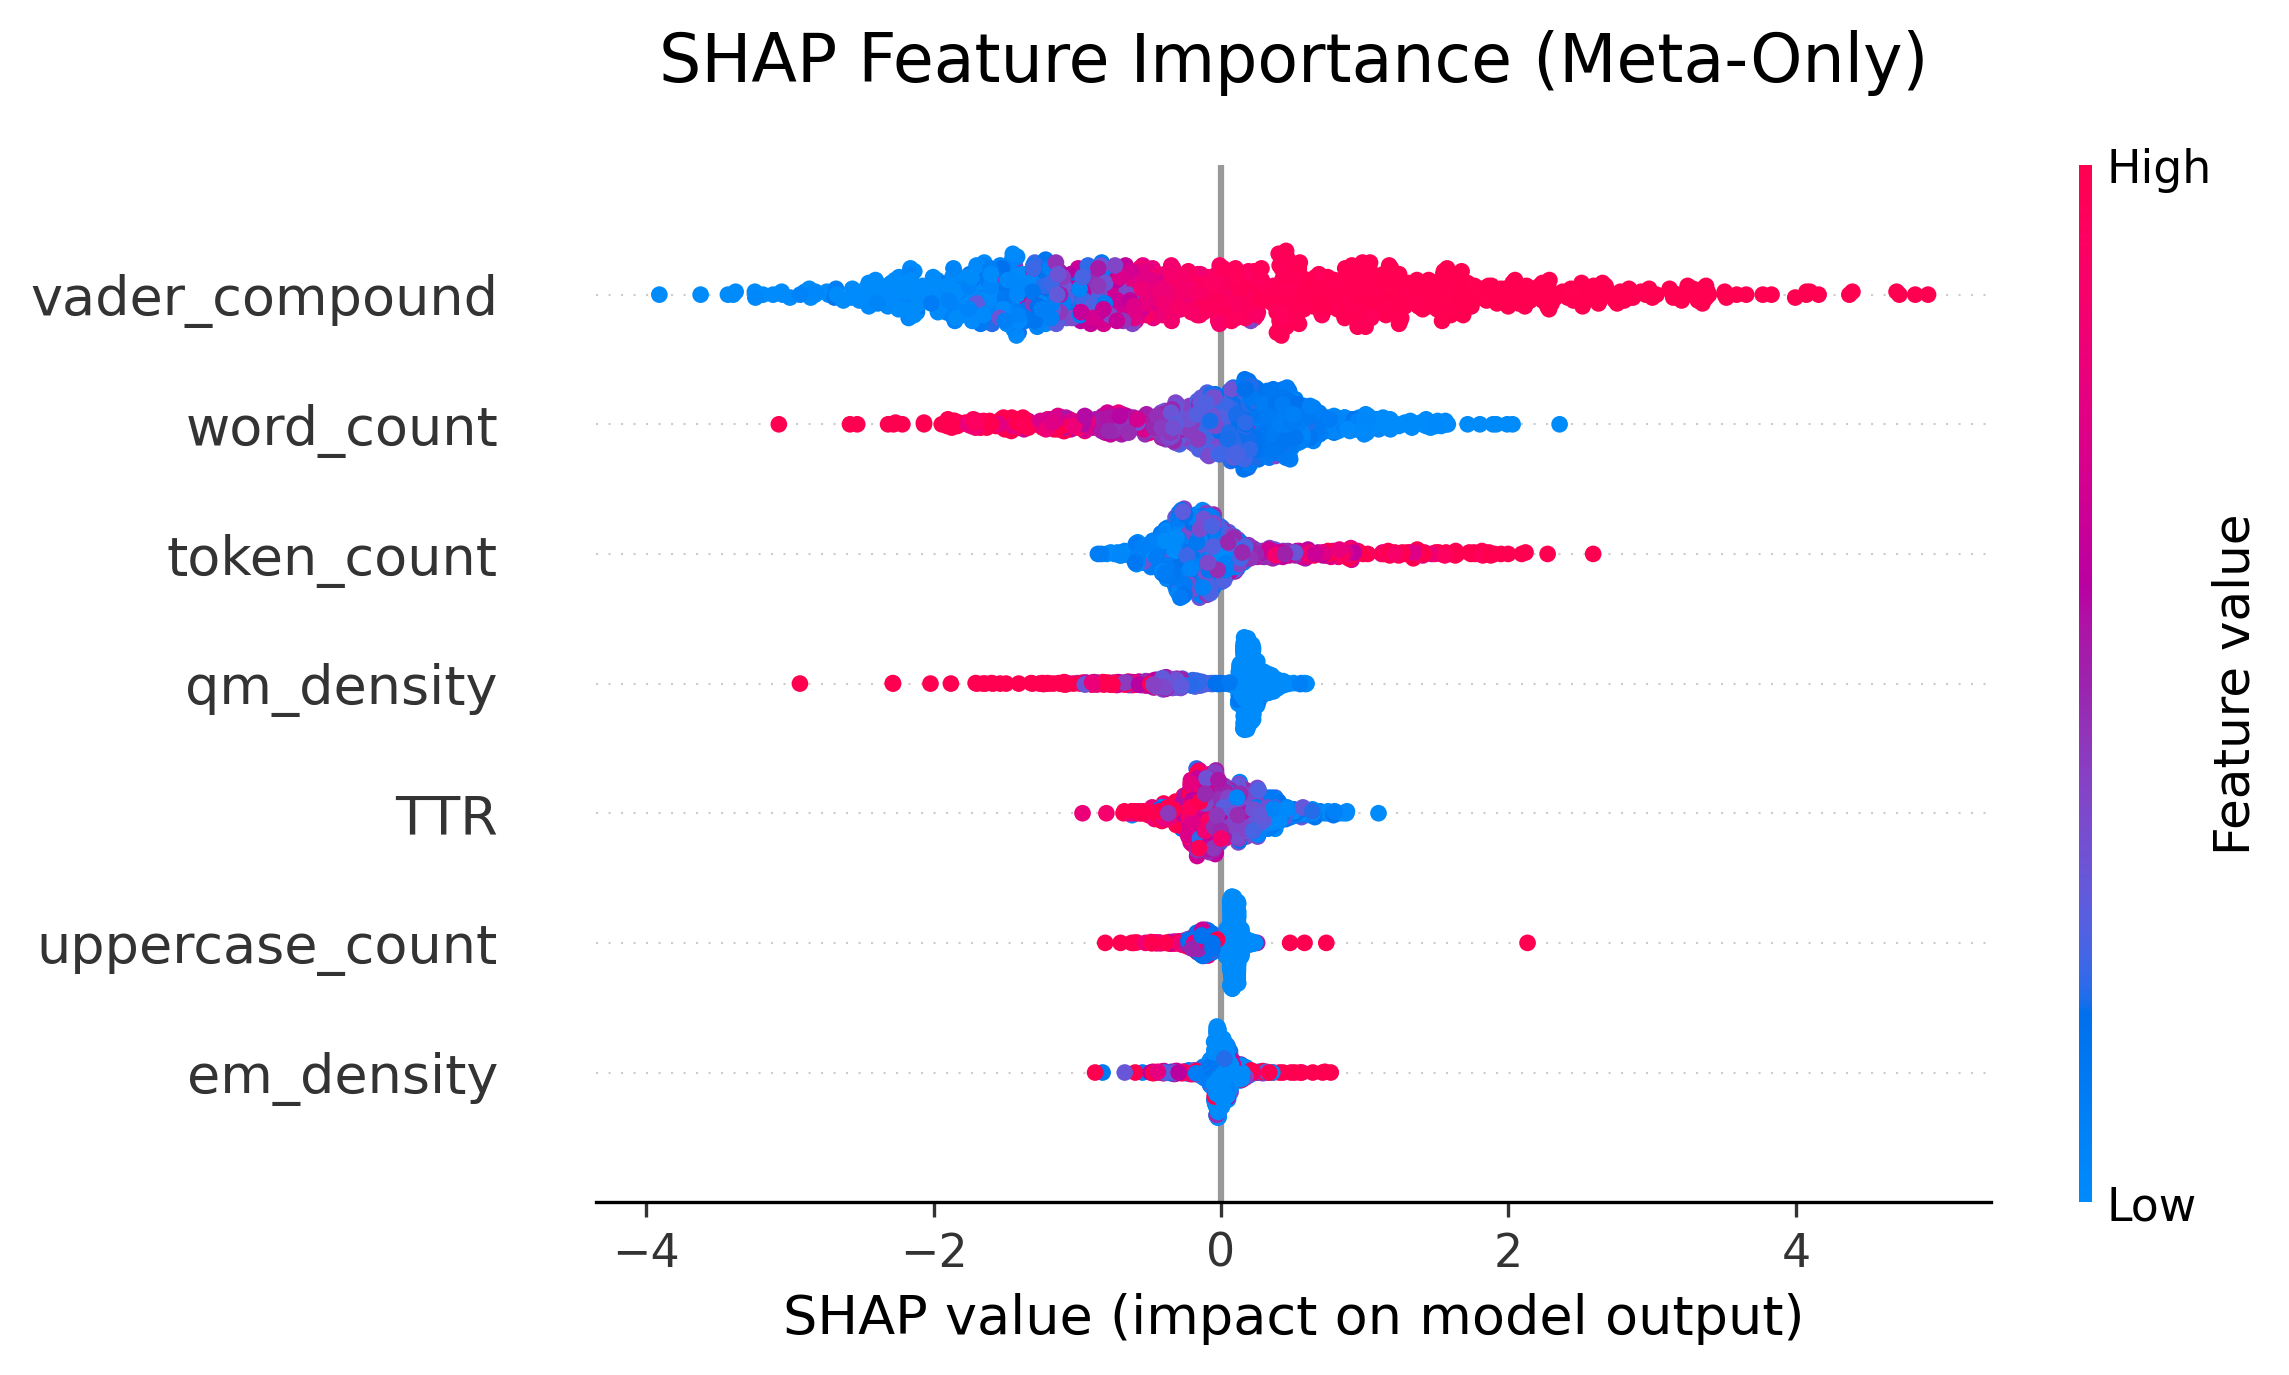
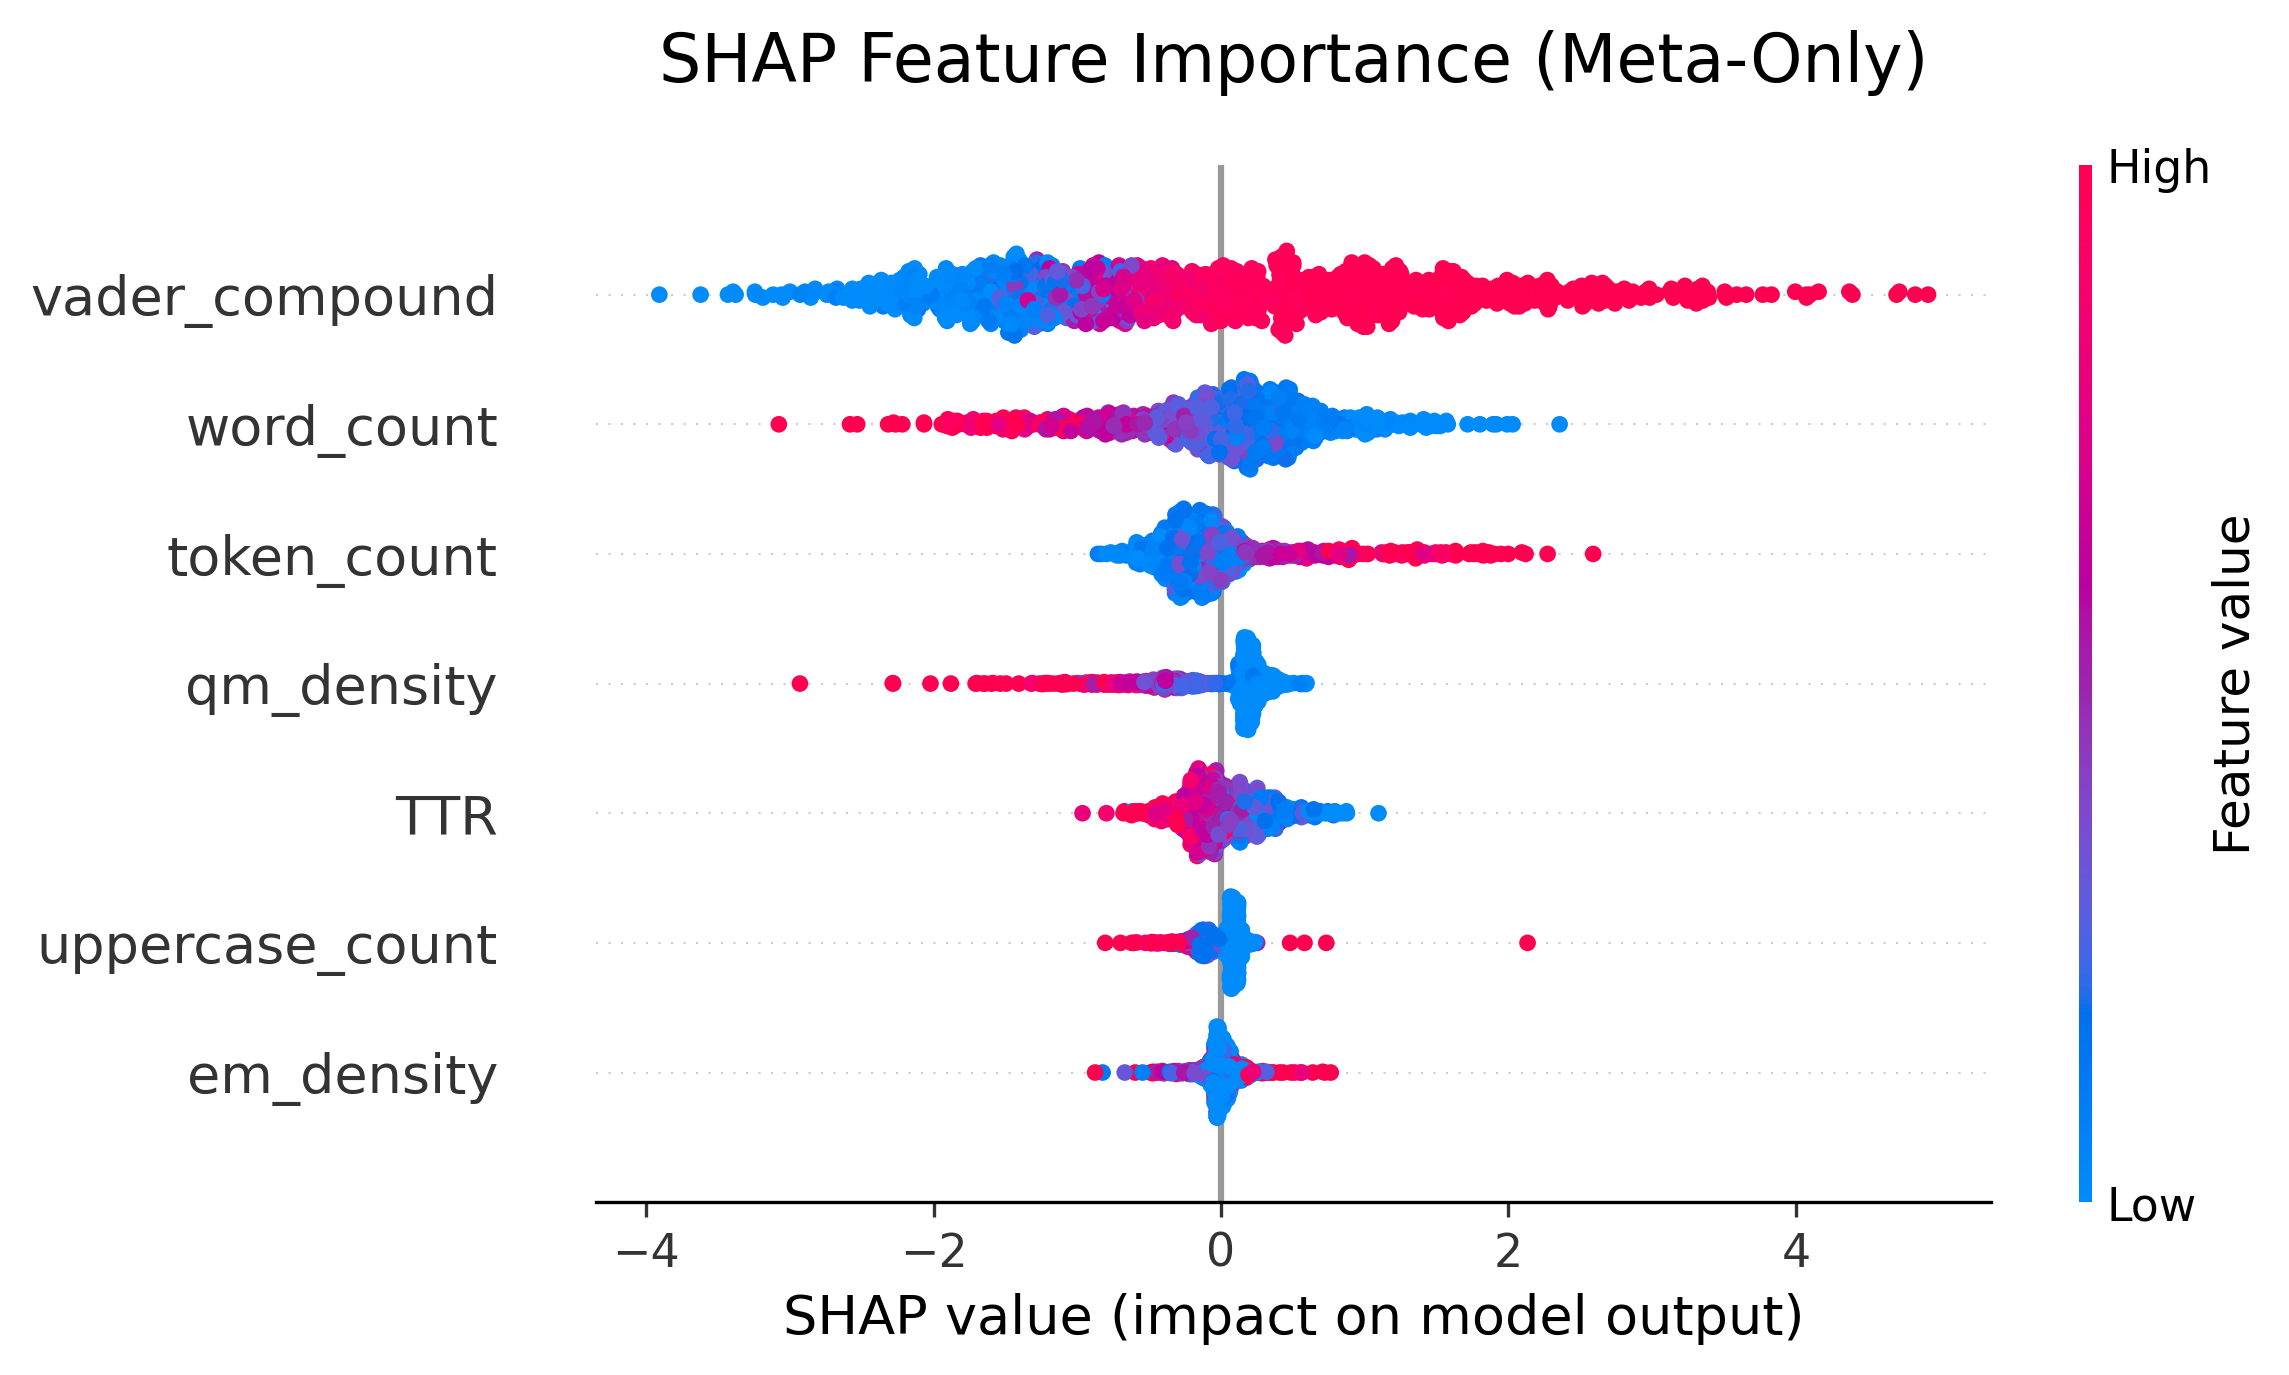
done done

diff --git a/pipelines/07_train_stacking_ensemble.py b/pipelines/07_train_stacking_ensemble.py
@@ -30,9 +30,9 @@ def main() -> None:
     
     # We only stack models that provide diverse errors
     oof_paths: Dict[str, str] = {
-        "Baseline (CatBoost+IDF)": cfg_paths.get("predictions", {}).get("baseline_oof", "data/processed/baseline_oof.parquet"),
-        "MLP (DistilBERT)": cfg_paths.get("predictions", {}).get("mlp_meta_bert_oof", "data/processed/mlp_meta_bert_oof.parquet"),
-        "LogReg (DistilBERT)": cfg_paths.get("predictions", {}).get("logreg_meta_bert_oof", "data/processed/logreg_meta_bert_oof.parquet"),
+        "Baseline_CatBoost_IDF": cfg_paths.get("predictions", {}).get("baseline_oof", "data/processed/baseline_oof.parquet"),
+        "MLP_DistilBERT": cfg_paths.get("predictions", {}).get("mlp_meta_bert_oof", "data/processed/mlp_meta_bert_oof.parquet"),
+        "LogReg_DistilBERT": cfg_paths.get("predictions", {}).get("logreg_meta_bert_oof", "data/processed/logreg_meta_bert_oof.parquet"),
     }
     
     dfs: Dict[str, pd.DataFrame] = {}

diff --git a/pipelines/08_run_shap_analysis.py b/pipelines/08_run_shap_analysis.py
@@ -100,9 +100,9 @@ def main() -> None:
         meta_learner = joblib.load(ensemble_model_path)
         
         oof_paths = {
-            "Baseline (CatBoost+IDF)": cfg_paths.get("predictions", {}).get("baseline_oof", "data/processed/baseline_oof.parquet"),
-            "MLP (DistilBERT)": cfg_paths.get("predictions", {}).get("mlp_meta_bert_oof", "data/processed/mlp_meta_bert_oof.parquet"),
-            "LogReg (DistilBERT)": cfg_paths.get("predictions", {}).get("logreg_meta_bert_oof", "data/processed/logreg_meta_bert_oof.parquet"),
+            "Baseline_CatBoost_IDF": cfg_paths.get("predictions", {}).get("baseline_oof", "data/processed/baseline_oof.parquet"),
+            "MLP_DistilBERT": cfg_paths.get("predictions", {}).get("mlp_meta_bert_oof", "data/processed/mlp_meta_bert_oof.parquet"),
+            "LogReg_DistilBERT": cfg_paths.get("predictions", {}).get("logreg_meta_bert_oof", "data/processed/logreg_meta_bert_oof.parquet"),
         }
         
         ensemble_features = []

diff --git a/README.md b/README.md
@@ -1,27 +1,37 @@
 # 🎬 IMDB Sentiment Analysis: Production-Grade NLP Pipeline
 
-This repository contains a high-performance NLP pipeline designed for classifying sentiment in movie reviews. The project focuses on **production-ready Data Engineering**, **rigorous validation via Nested K-Fold CV**, and **Hybrid ML architectures**.
+This repository contains a high-performance NLP pipeline designed for classifying sentiment in movie reviews. The project focuses on **production-ready Software Engineering**, **rigorous validation via Nested K-Fold CV**, and **Hybrid ML Architectures** combining classical lexical features with Deep Learning semantic embeddings.
 
 The methodology implemented here is directly applicable to large-scale e-commerce sentiment analysis (e.g., product reviews in the Kaspi.kz ecosystem).
 
-```
-done so far:
-src/imdb/data/preprocessor.py
-tests/
-```
+## 🏆 Final Model Performance (Nested CV AUC)
 
-## 🏗 Project Architecture & Workflow
-The project is structured to separate the data plumbing from the modeling logic, ensuring scalability and maintainability.
+The project utilizes a strict 5-Fold Nested Cross-Validation strategy to guarantee unbiased evaluation. The final solution is a Logistic Regression Stacking Ensemble that blends lexical and semantic models.
 
-*   **ETL & Preprocessing:** Modular Python classes for text scrubbing.
-*   **Feature Engineering:** Extraction of meta-features capturing human emotion and vocabulary richness.
-*   **Validation:** Nested K-Fold Cross-Validation to ensure statistical robustness and avoid "lucky" splits.
-*   **Experiment Tracking:** MLflow integration for logging metrics, parameters, and model versions.
+| Model Architecture | Features | Test/OOF AUC |
+| :--- | :--- | :--- |
+| **Logistic Regression (Meta-Learner)** | **OOF Probabilities (Ensemble)** | **0.9663** |
+| CatBoost Baseline | TF-IDF (13k) + Meta | 0.9541 |
+| PyTorch MLP (1-Layer, 128 Units) | DistilBERT [CLS] + Meta | 0.9501 |
+| Logistic Regression (Elastic Net) | DistilBERT [CLS] + Meta | 0.9465 |
+| CatBoost (Initial Attempt) | DistilBERT [CLS] + Meta | 0.9173 |
+| CatBoost (Structural) | Meta-Features Only | 0.8230 |
 
 ---
 
-## 🛠 Phase 1: ETL & Feature Engineering (COMPLETED)
-The first stage focused on transforming raw, noisy HTML strings into a rich, structured dataset ready for high-performance boosting trees and transformers.
+## 🏗 Project Architecture & Workflow
+
+The codebase underwent a massive architectural refactor to separate mathematical operations from script execution, resulting in a clean, production-grade structure:
+
+*   **`src/imdb/`**: The core backend package housing all heavy lifting (Data loading, PyTorch `nn.Module` definitions, Scikit-Learn/CatBoost wrappers, and strict Cross-Validation logic).
+*   **`pipelines/`**: Lightweight, declarative execution scripts (`01` through `08`) that orchestrate the `src/` modules.
+*   **Experiment Tracking:** Fully integrated with local **MLflow** (`mlruns.db`) to persistently log metrics, hyperparameters (Optuna), and model weights.
+
+---
+
+## 🛠 Phase 1: ETL & Feature Engineering
+
+The first stage focuses on transforming raw, noisy HTML strings into a rich, structured dataset ready for high-performance boosting trees and transformers.
 
 ### 1. Data Cleaning (Level 1-3)
 *   **Structural Scrubbing:** Regex-based removal of HTML tags (`<br />`) and URLs to clean the input stream without losing semantic integrity.
@@ -29,56 +39,101 @@ The first stage focused on transforming raw, noisy HTML strings into a rich, str
 *   **Lemmatization:** Reducing words to their base forms (NLTK) to reduce vocabulary sparsity for the TF-IDF baseline.
 
 ### 2. Feature Engineering Logic
-Six key meta-features were engineered to capture signal that is often lost during deep text cleaning:
+Six key meta-features were engineered to capture signals that are often lost during deep text cleaning:
 *   **VADER Sentiment:** Rule-based polarity scores calculated on raw text to capture intensity before standardization.
 *   **Lexical Complexity (TTR):** Type-Token Ratio to measure vocabulary richness.
 *   **Uppercase Density:** Capturing "shouting" signals (emphasized words) before lowercasing.
 *   **Punctuation Densities:** Separate density metrics for `!` and `?` to detect emotional intensity and sarcasm/confusion.
 *   **Word Count:** Capturing the correlation between review length and sentiment polarization.
 
-### 3. Engineering Rigor
-*   **Unit Testing:** Comprehensive test suite using `pytest` with module-scoped fixtures for sequential pipeline testing.
-*   **Configuration Management:** All paths and hyperparameters are externalized in `.yaml` files.
-*   **Performance:** Vectorized Pandas operations and list comprehensions utilized to handle the 50,000-row dataset in under 3 seconds.
+---
+
+## 🧠 Phase 2: Modeling & Optimization
+
+The modeling strategy leverages the **Diversity of Errors** principle. We trained distinct models with different "worldviews" (lexical vs. semantic) to feed into a final meta-learner.
+
+### 1. The Lexical Baseline (TF-IDF + CatBoost)
+*   Extracts top 13,000 unigrams and bigrams.
+*   Combined with 7 meta-features, processed by CatBoost utilizing internal quantization/binning.
+*   **Strengths:** Highly accurate at identifying explicit sentiment keywords.
+
+### 2. The Semantic Neural Classifiers (DistilBERT)
+Rather than passing dense 768-D embeddings into tree models (which proved highly sub-optimal and slow, yielding only 0.9173 AUC), we utilized native mathematical classifiers:
+*   **Logistic Regression:** Tuned with the SAGA solver to apply an **Elastic Net** (L1 + L2) penalty to the high-dimensional embeddings.
+*   **PyTorch MLP:** A custom neural network trained via GPU. Tuned via Optuna for network depth, units, dropout, and learning rate. Regularized using **AdamW** (Weight Decay/L2).
+
+### 3. The Stacking Ensemble
+A Level-1 Logistic Regression meta-learner trained purely on the Out-Of-Fold (OOF) probability predictions of the Baseline, LogReg, and MLP models. By operating in Log-Odds space, the stacker learned to perfectly balance the lexical rigidity of TF-IDF with the contextual awareness of BERT.
 
 ---
 
-## 🚀 Phase 2: Modeling Roadmap (TODO)
+## 🚧 Key Challenges & Solutions
 
-### 1. Baseline: Sparse Hybrid Model
-*   **Vectorization:** TF-IDF (Term Frequency-Inverse Document Frequency).
-*   **Model:** CatBoostClassifier.
-*   **Optimization:** **Optuna** for hyperparameter tuning.
-*   **Validation:** Nested K-Fold CV to generate **Out-of-Fold (OOF)** predictions.
+**1. The Transformer Context Window (512 Tokens)**
+*   *Problem:* Standard BERT truncates reviews longer than 512 tokens, causing the model to miss the "punchline" or conclusion of long movie reviews.
+*   *Solution:* Implemented a **128/128 Head/Tail Tokenization Strategy**. The custom pipeline slices the first 127 tokens and the last 127 tokens, concatenating them around `[CLS]` and `[SEP]` tags. This ensures the model sees both the setup and the final verdict of the review.
 
-### 2. Production: Transformer Embedding Model
-*   **Feature Extraction:** Generating 768-dimensional sentence embeddings using **DistilBERT** (Hugging Face).
-*   **Hybrid Head:** CatBoost trained on the concatenation of [DistilBERT Vectors + Engineered Meta-Features].
-*   **Reasoning:** This hybrid approach combines the deep semantic understanding of Transformers with the structural/stylistic signal of meta-features.
+**2. Data Leakage in Cross-Validation**
+*   *Problem:* Applying `StandardScaler` or `TfidfVectorizer` to the entire dataset before splitting causes information from the validation/test folds to leak into the training data.
+*   *Solution:* Engineered a **Universal Nested CV** function (`src/imdb/training/cv.py`) that strictly isolates fitting transformations to the training fold of each inner and outer split. 
 
-### 3. Interpretability & Analysis
-*   **SHAP (TreeExplainer):** Explaining the final CatBoost model to quantify the contribution of meta-features vs. semantic embeddings.
-*   **Ablation Studies:** Systematically dropping feature sets to verify their impact on model performance.
+**3. SHAP Interpretability on Dense Vectors**
+*   *Problem:* Running `shap.TreeExplainer` on CatBoost models trained on DistilBERT embeddings yields useless insights (e.g., "Dimension 594 is highly predictive").
+*   *Solution:* SHAP analysis is strictly partitioned. `TreeExplainer` is applied *only* to the interpretable Baseline (TF-IDF words) and Meta-Only models. For the ensemble, `shap.LinearExplainer` is used to visualize exactly how the Meta-Learner weighs the trust between the base models.
 
 ---
 
 ## 💻 Tech Stack
-*   **Core:** Python 3.12, Pandas, NumPy, Scikit-Learn.
-*   **NLP:** NLTK, VADER, Hugging Face Transformers.
-*   **ML Models:** CatBoost.
-*   **Optimization/Tracking:** Optuna, MLflow.
+*   **Core:** Python 3.12, Pandas, NumPy, SciPy.
+*   **NLP:** NLTK, VADER, Hugging Face Transformers (`distilbert-base-uncased`).
+*   **Machine Learning:** Scikit-Learn, CatBoost, PyTorch.
+*   **MLOps & Optimization:** Optuna, MLflow.
 *   **DevOps/QA:** Pytest, Ruff (Linting), PyYAML.
 
 ---
 
-### How to Run
+## 🚀 How to Run
+
+*Note: The trained model artifacts (`.joblib`, `.pt`, `.cbm`) are tracked in this repository, but the raw data and OOF predictions are excluded via `.gitignore`.*
+
+### 1. Setup & Installation
 ```bash
-# Install dependencies
+# Clone the repository
+git clone <repo_url>
+cd imdb_reviews
+
+# Install the local src/ package and dependencies
 pip install -e .
+```
 
-# Run data preprocessing pipeline
-python pipelines/run_preprocessing.py
+### 2. Data Preparation
+Download the Kaggle IMDB Dataset (50k movie reviews) and place it in the raw data directory:
+`data/raw/IMDB Dataset.csv`
 
-# Execute test suite
-pytest -v -x
+### 3. Execution Pipeline
+Run the pipelines sequentially from the project root:
+
+```bash
+# 1. Clean data and engineer meta-features
+python -m pipelines.01_run_preprocessing
+
+# 2. Extract DistilBERT Head/Tail embeddings (GPU recommended)
+python -m pipelines.04_gen_bert_head_tail
+
+# 3. Train Base Models (Generates OOF predictions & MLflow tracking)
+python -m pipelines.03_train_catboost_meta_idf
+python -m pipelines.05_train_logreg_meta_bert
+python -m pipelines.06_train_mlp_meta_bert
+
+# 4. Train Level-1 Stacking Ensemble
+python -m pipelines.07_train_stacking_ensemble
+
+# 5. Generate Interpretability Visualizations (Reports saved to reports/figures/)
+python -m pipelines.08_run_shap_analysis
+```
+
+### 4. Viewing MLflow Metrics
+To view the experiment tracking dashboard (Nested CV fold metrics, Optuna hyperparameter traces, etc.):
+```bash
+mlflow ui --backend-store-uri sqlite:///mlruns.db
 ```